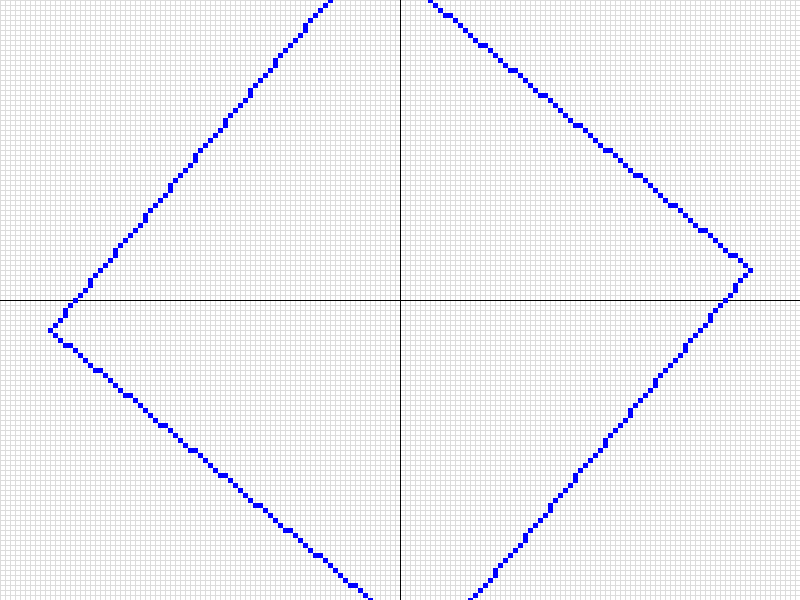
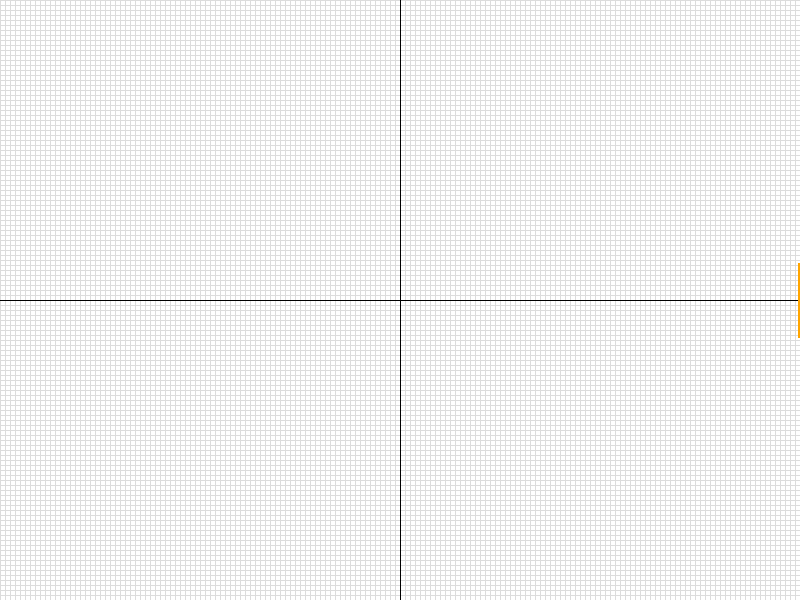
Add del create_ellipse_arc, create_circle_arc, class Group

diff --git a/2D_project/engine.py b/2D_project/engine.py
@@ -30,7 +30,8 @@ class GraphicsEngine:
         px_x = self.width // 2 + x*5
         px_y = self.height // 2 - y*5
         return (px_x, px_y)
-    
+
+#ham putpixel
     def putpixel(self, x, y, color=(0, 0, 0)):
         px_x, px_y = self.to_screen(x, y)
         # DK ve diem nam trong khung hinh
@@ -92,28 +93,28 @@ class GraphicsEngine:
         self.draw_line(x2, y2, x3, y3, color)
 
     #Ve duong tron tam O va ban kinh r
-    def draw_circle(self, r, color=(0, 0, 0)):
-        r = int(r)
-        x = 0
-        y = r
-        p = 1 - r
-        while x <= y:
-            self.putpixel(x, y, color)
-            self.putpixel(-x, y, color)
-            self.putpixel(x, -y, color)
-            self.putpixel(-x, -y, color)
-            self.putpixel(y, x, color)
-            self.putpixel(-y, x, color)
-            self.putpixel(y, -x, color)
-            self.putpixel(-y, -x, color)
+    # def draw_circle(self, r, color=(0, 0, 0)):
+    #     r = int(r)
+    #     x = 0
+    #     y = r
+    #     p = 1 - r
+    #     while x <= y:
+    #         self.putpixel(x, y, color)
+    #         self.putpixel(-x, y, color)
+    #         self.putpixel(x, -y, color)
+    #         self.putpixel(-x, -y, color)
+    #         self.putpixel(y, x, color)
+    #         self.putpixel(-y, x, color)
+    #         self.putpixel(y, -x, color)
+    #         self.putpixel(-y, -x, color)
 
-            if p < 0:
-                x += 1
-                p += 2*x + 1
-            else:
-                x += 1
-                y -= 1
-                p += 2*x - 2*y +1
+    #         if p < 0:
+    #             x += 1
+    #             p += 2*x + 1
+    #         else:
+    #             x += 1
+    #             y -= 1
+    #             p += 2*x - 2*y +1
     #Ve duong tron: nhap vao tam (xc, yc) va ban kinh r
     def draw_any_circle(self, xc, yc, r, color=(0, 0, 0)):
         xc, yc, r = int(xc), int(yc), int(r)
@@ -139,51 +140,51 @@ class GraphicsEngine:
                 p += 2*x - 2*y +1
 
     #Ve elip: tam O, nhap vao ban kinh lon a, ban kinh nho b
-    def draw_ellipse(self, a, b, color=(0, 0, 0)):
-        a, b = int(a), int(b)
-        x = 0
-        y = b
-        a2 = a*a
-        b2 = b*b
-        two_a2 = 2*a2
-        two_b2 = 2*b2
-        # Mien I
-        p = b2 - a2*b + a2*0.25
-        dx = two_b2*x
-        dy = two_a2*y
-        while dx < dy:
-            self.putpixel(x, y, color)
-            self.putpixel(-x, y, color)
-            self.putpixel(x, -y, color)
-            self.putpixel(-x, -y, color)
-            if p < 0:
-                x += 1
-                dx += two_b2
-                p += dx + b2
-            else:
-                x += 1
-                y -= 1
-                dx += two_b2
-                dy -= two_a2
-                p += dx - dy + b2
+    # def draw_ellipse(self, a, b, color=(0, 0, 0)):
+    #     a, b = int(a), int(b)
+    #     x = 0
+    #     y = b
+    #     a2 = a*a
+    #     b2 = b*b
+    #     two_a2 = 2*a2
+    #     two_b2 = 2*b2
+    #     # Mien I
+    #     p = b2 - a2*b + a2*0.25
+    #     dx = two_b2*x
+    #     dy = two_a2*y
+    #     while dx < dy:
+    #         self.putpixel(x, y, color)
+    #         self.putpixel(-x, y, color)
+    #         self.putpixel(x, -y, color)
+    #         self.putpixel(-x, -y, color)
+    #         if p < 0:
+    #             x += 1
+    #             dx += two_b2
+    #             p += dx + b2
+    #         else:
+    #             x += 1
+    #             y -= 1
+    #             dx += two_b2
+    #             dy -= two_a2
+    #             p += dx - dy + b2
 
-        # Mien II
-        q = b2*(x + 0.5)*(x + 0.5) + a2*(y - 1)*(y - 1) - a2*b2
-        while y >= 0:
-            self.putpixel(x, y, color)
-            self.putpixel(-x, y, color)
-            self.putpixel(x, -y, color)
-            self.putpixel(-x, -y, color)
-            if q > 0:
-                y -= 1
-                dy -= two_a2
-                q += a2 - dy
-            else:
-                y -= 1
-                x += 1
-                dx += two_b2
-                dy -= two_a2
-                q += dx - dy + a2
+    #     # Mien II
+    #     q = b2*(x + 0.5)*(x + 0.5) + a2*(y - 1)*(y - 1) - a2*b2
+    #     while y >= 0:
+    #         self.putpixel(x, y, color)
+    #         self.putpixel(-x, y, color)
+    #         self.putpixel(x, -y, color)
+    #         self.putpixel(-x, -y, color)
+    #         if q > 0:
+    #             y -= 1
+    #             dy -= two_a2
+    #             q += a2 - dy
+    #         else:
+    #             y -= 1
+    #             x += 1
+    #             dx += two_b2
+    #             dy -= two_a2
+    #             q += dx - dy + a2
 
     #Ve elip: nhap vao tam (xc, yc) va ban kinh lon a, ban kinh nho b
     def draw_any_ellipse(self, xc, yc, a, b, color=(0, 0, 0)):
@@ -231,6 +232,19 @@ class GraphicsEngine:
                 dx += two_b2
                 dy -= two_a2
                 q += dx - dy + a2
+    #Hàm vẽ elip khuyết: nhập vào tâm (xc, yc), bán kính lớn a, bán kính nhỏ b, góc bắt đầu start_angle và góc kết thúc end_angle
+    def create_ellipse_arc(self, xc, yc, a, b, start_angle, end_angle):
+        xc, yc, a, b = int(xc), int(yc), int(a), int(b)
+        vertices = []
+        for angle in range(start_angle, end_angle + 1):
+            rad = math.radians(angle)
+            x = a * math.cos(rad)
+            y = b * math.sin(rad)
+            vertices.append((x + xc, y + yc))
+        return Polygon(vertices)
+    #Hàm vẽ cung tròn: nhập vào tâm (xc, yc), bán kính r, góc bắt đầu start_angle và góc kết thúc end_angle
+    def create_circle_arc(self, xc, yc, r, start_angle, end_angle):
+        return self.create_ellipse_arc(xc, yc, r, r, start_angle, end_angle)
 
     def getpixel(self, x, y):
         return self.image.getpixel((x, y))
@@ -297,38 +311,60 @@ class Polygon:
             next_i = (i + 1) % num_vertices
             x2, y2 = self.matrix[0, next_i], self.matrix[1, next_i]
             engine.draw_line(x1, y1, x2, y2, color)
+
+class Group:
+    def __init__(self):
+        self.shapes = []
     
+    def add(self, polygon):
+        self.shapes.append(polygon)
+    
+    def transform(self, transform_matrix):
+        for shape in self.shapes:
+            shape.transform(transform_matrix)
+    
+    def draw(self, engine, color=(0, 0, 0)):
+        for shape in self.shapes:
+            shape.draw(engine, color=color)
+
 # test
 if __name__ == "__main__":
     engine = GraphicsEngine(800, 600)
     engine.draw_grid()
-    engine.bg_layer = engine.image.copy() # Chụp ảnh nền (tốt)
-    
-    # Vẽ các hình tĩnh trên nền
-    engine.draw_rectangle(-10, -50, 30, 10, (0, 255, 0))  
-    engine.boundary_fill(-5, -45, (255, 0, 0), (0, 255, 0))  
+    engine.bg_layer = engine.image.copy() # Chụp ảnh nền
+
+    pacman_body = engine.create_circle_arc(0, 0, 30, 45, 315)
+    eye = [(5, 10), (10, 15), (15, 10), (10, 5)]
+    pacman_eye = Polygon(eye)
+
+    pacman_group = Group()
+    pacman_group.add(pacman_body)
+    pacman_group.add(pacman_eye)
     
     # Khởi tạo hình đa giác chuyển động
-    rect_vertices = [(-50, -50), (50, -50), (50, 50), (-50, 50)]
-    my_rect = Polygon(rect_vertices)
+    # rect_vertices = [(-50, -50), (50, -50), (50, 50), (-50, 50)]
+    # my_rect = Polygon(rect_vertices)
     print("Đang chạy Animation... Nhấn phím 'q' trên cửa sổ để thoát.")
     
     while True:
         engine.clear()
         
         # Xoay hình
-        R = engine.rotation_matrix(2)
-        my_rect.transform(R)
-        my_rect.draw(engine, color=(0, 0, 255))
+        # R = engine.rotation_matrix(2)
+        # my_rect.transform(R)
+        # my_rect.draw(engine, color=(0, 0, 255))
+
+        T = engine.translation_matrix(1, 0)
+        pacman_group.transform(T)
+        pacman_group.draw(engine, color=(255, 165, 0)) # Màu cam cho Pacman
+
         
-        # --- CẢI TIẾN QUAN TRỌNG CHỖ NÀY ---
-        # OpenCV cần numpy array và hệ màu BGR thay vì RGB của PIL
         cv_image = np.array(engine.image) # Chuyển PIL Image thành Numpy
         cv_image = cv2.cvtColor(cv_image, cv2.COLOR_RGB2BGR) # Đảo màu
         
         cv2.imshow("2D animation", cv_image)
         
-        # Đợi 30ms (~33 FPS) để chuyển động hiển thị mượt mà thay vì 1ms
+        # Đợi 30ms (~33 FPS) để chuyển động hiển thị mượt mà
         if cv2.waitKey(30) & 0xFF == ord('q'):
             break
             